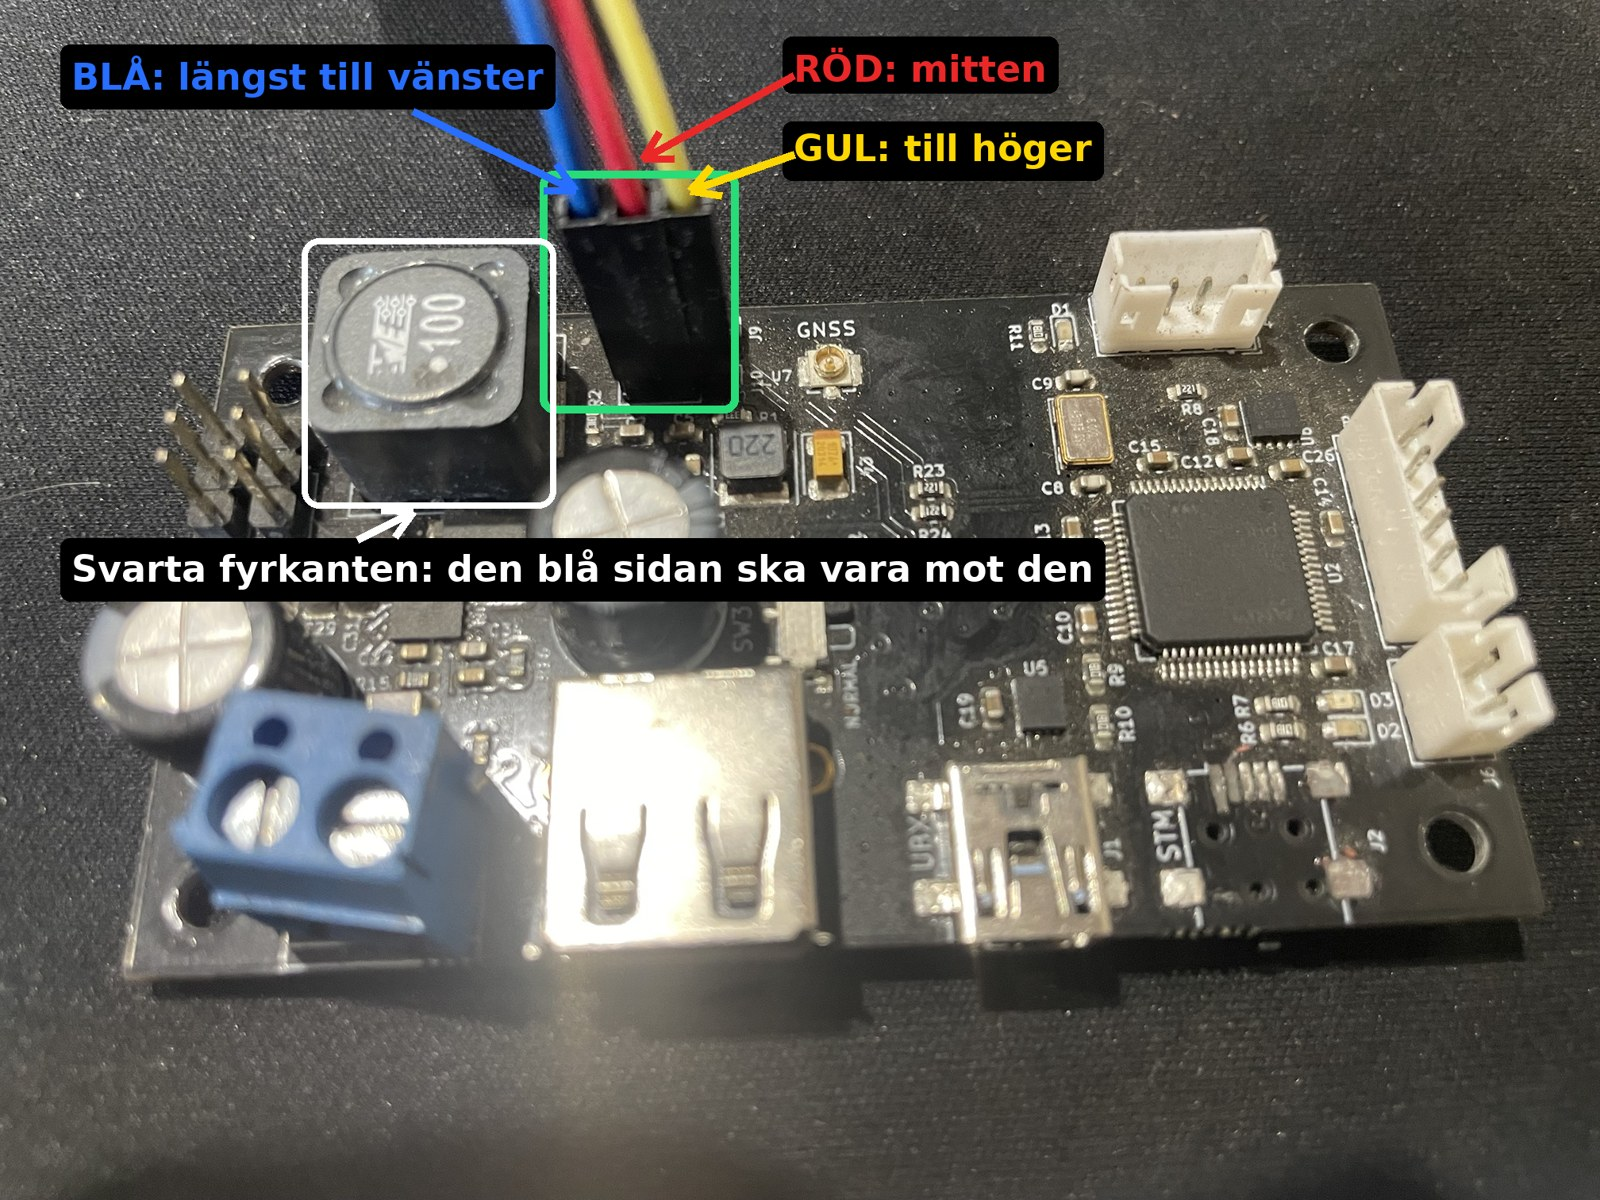
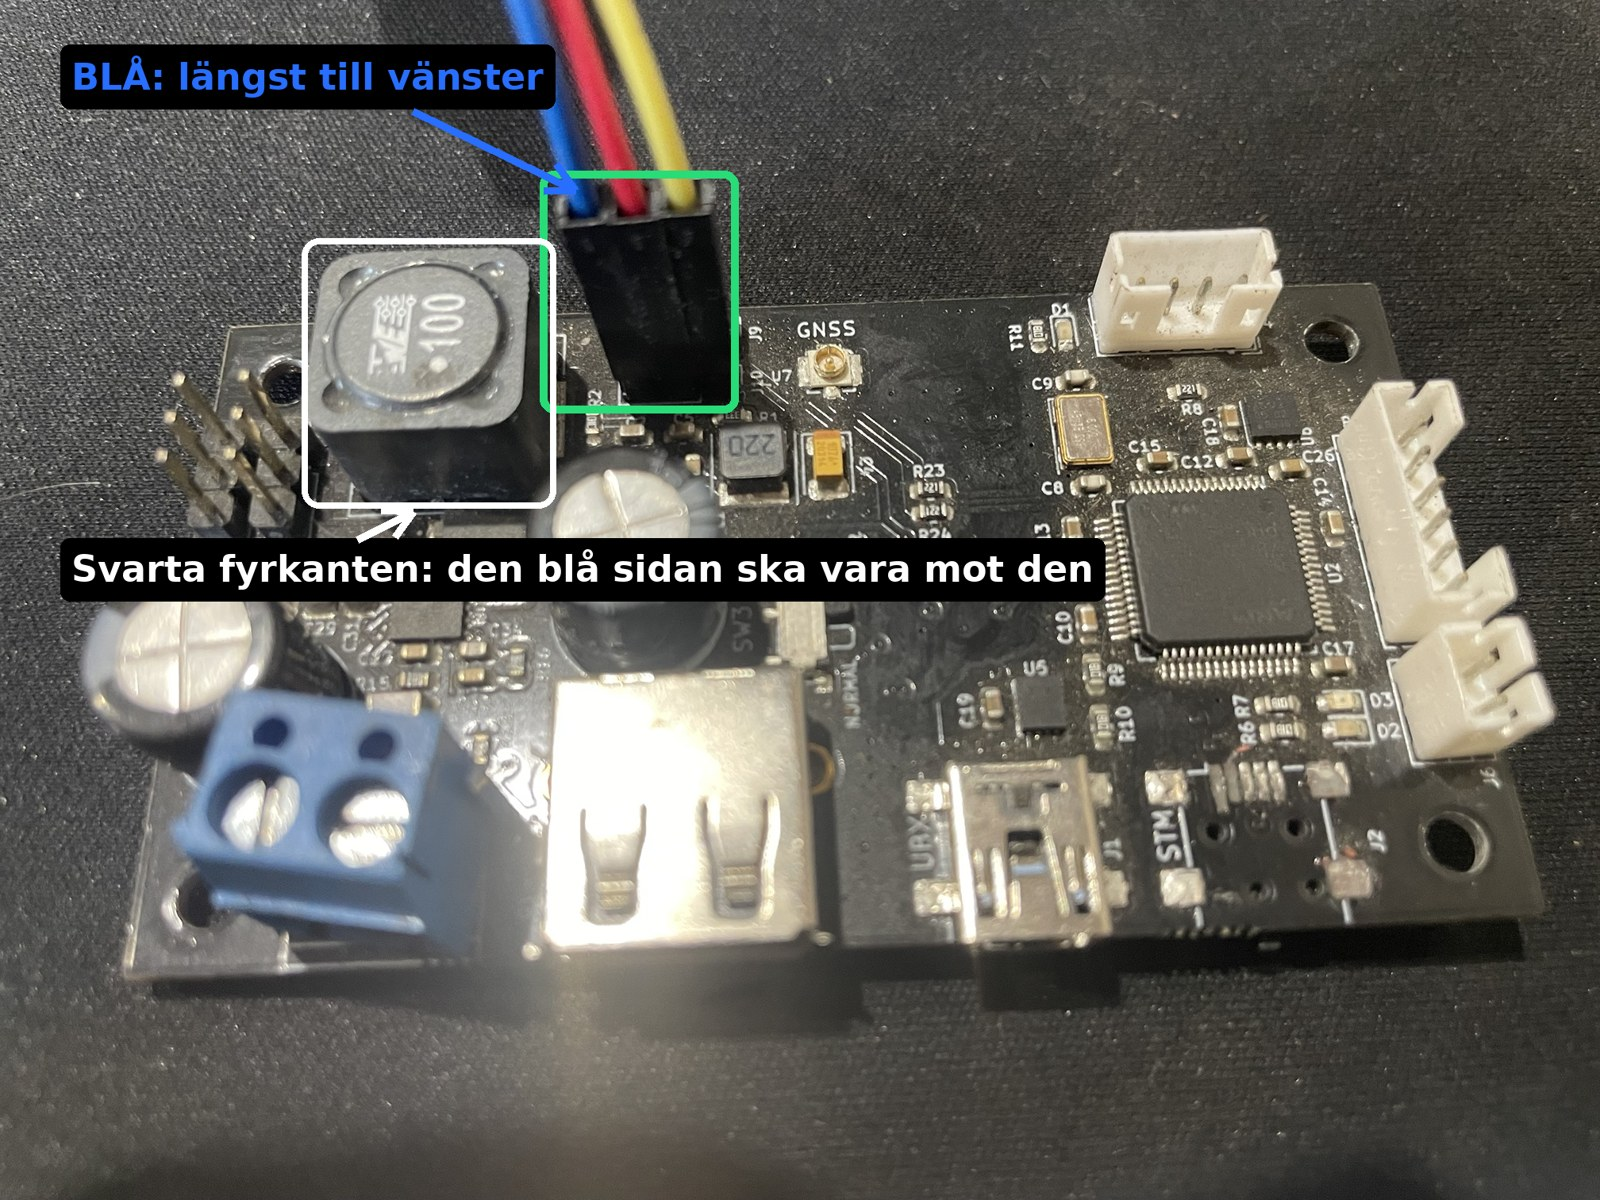
Kopplingsschema givare: bara blå markerad, övriga färger varierar
Claude-Session: https://claude.ai/code/session_01GR1kFPLPYiyGG9XJW5j5c7

Changed region(s): [[0.4062, 0.0308, 0.6875, 0.185]]

diff --git a/manualer/gor_givare.py b/manualer/gor_givare.py
@@ -166,8 +166,9 @@ def guide():
     c = [
         h1("Kontakten på kortet: blå längst till vänster"),
         varning("<b>Det viktiga är att den blå ledaren sitter längst till vänster, mot den stora svarta "
-                "fyrkanten</b> (spolen märkt 100), precis som på bilden. Röd hamnar i mitten och gul till höger. "
-                "Sitter kontakten vänd åt andra hållet eller ett steg fel blir kopplingen fel."),
+                "fyrkanten</b> (spolen märkt 100), precis som på bilden. De andra ledarnas färger varierar mellan "
+                "kablarna, så gå bara efter den blå. Kontakterna är limmade ihop, så sitter den blå rätt sitter "
+                "resten också rätt."),
         bild("givarkontakt_bla.jpg", 135, "Kontakten J9 bredvid GNSS-uttaget. Grön ram: kontakten. Vit ram: den "
              "svarta fyrkanten som den blå ledaren ska vara mot."),
 
